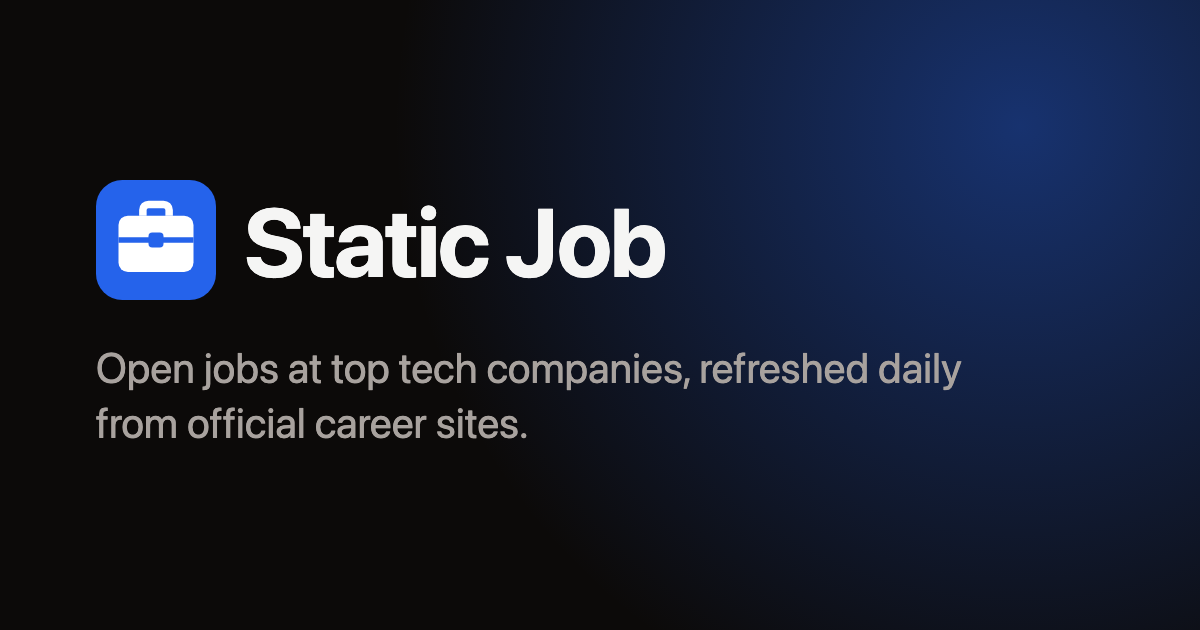
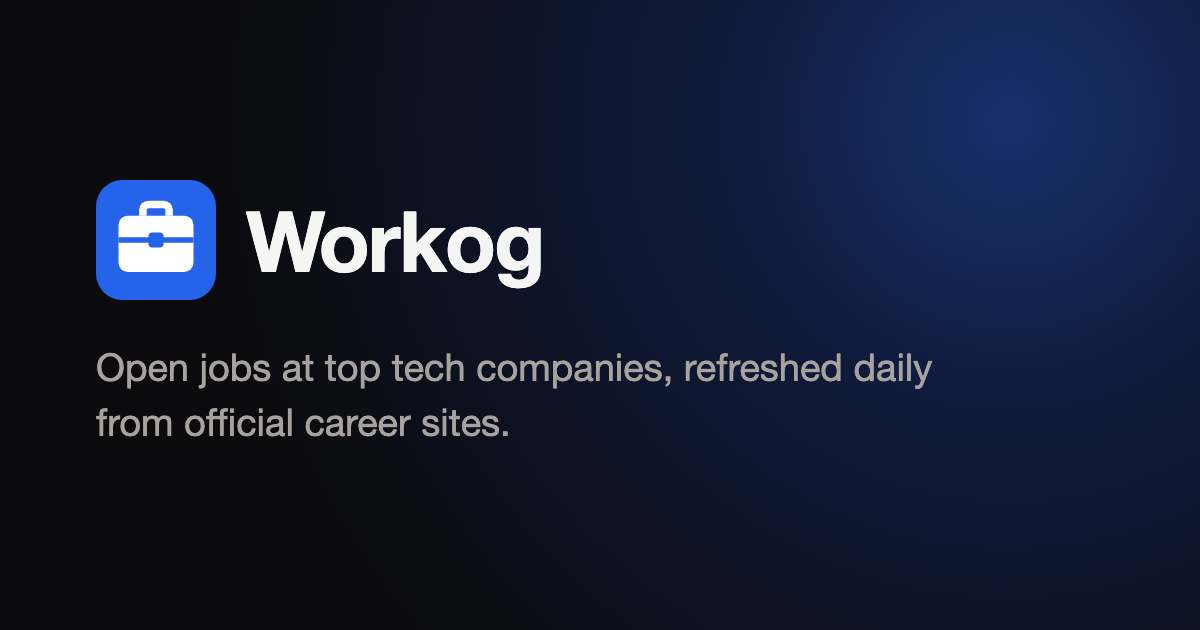
rename

Changed region(s): [[0.0925, 0.5429, 0.8017, 0.6937], [0.185, 0.3317, 0.555, 0.4524]]

diff --git a/scripts/alert.ts b/scripts/alert.ts
@@ -19,7 +19,7 @@ export function formatRunAlert(run: Pick<Run, "startedAt" | "sources">): string 
     const streak = s.fallbackStreak > 1 ? `, ${s.fallbackStreak} runs in a row` : "";
     return `${label} (${s.source}): ${s.reason ?? "fallback"}. Fetched ${s.fetched}, invalid ${s.invalid}; kept ${s.open} open jobs from the previous run${streak}.`;
   });
-  return [`Static Job run ${run.startedAt}: ${fallbacks.length} source(s) fell back`, ...lines].join("\n");
+  return [`Workog run ${run.startedAt}: ${fallbacks.length} source(s) fell back`, ...lines].join("\n");
 }
 
 function runLink(): string | undefined {

diff --git a/src/lib/structured-data.ts b/src/lib/structured-data.ts
@@ -14,10 +14,10 @@ const employmentTypes: Record<EmploymentType, string> = {
 
 export const website = (site: URL, description: string): Thing => ({
   "@type": "WebSite",
-  name: "Static Job",
+  name: "Workog",
   url: site.href,
   description,
-  publisher: { "@type": "Organization", name: "Static Job", url: site.href, logo: new URL("/icon-512.png", site).href },
+  publisher: { "@type": "Organization", name: "Workog", url: site.href, logo: new URL("/icon-512.png", site).href },
 });
 
 export const breadcrumbs = (items: { name: string; url: URL }[]): Thing => ({

diff --git a/src/pages/llms.txt.ts b/src/pages/llms.txt.ts
@@ -16,7 +16,7 @@ export const GET: APIRoute = async ({ site }) => {
   const list = (links: { href: string; label: string; count: number }[]) =>
     links.map((l) => `- [${l.label}](${url(l.href)}): ${plural(l.count, "open job")}`).join("\n");
 
-  const body = `# Static Job
+  const body = `# Workog
 
 > ${plural(jobs.length, "open job")} at ${plural(companies.length, "tech company")}, fetched daily from each company's official careers site.${run ? ` Last updated ${run.finishedAt}.` : ""}
 

diff --git a/scripts/fetchers/http.ts b/scripts/fetchers/http.ts
@@ -1,5 +1,5 @@
 const USER_AGENT =
-  process.env.FETCH_USER_AGENT ?? "static-job/0.1 (+https://static-job.pages.dev/about)";
+  process.env.FETCH_USER_AGENT ?? "workog/0.1 (+https://workog.com/about)";
 
 const TIMEOUT_MS = 30_000;
 const MAX_RETRIES = 3;

diff --git a/README.md b/README.md
@@ -1,4 +1,4 @@
-# Static Job
+# Workog
 
 A static job portal: a daily pipeline fetches open jobs from company career sites into `data/jobs/*.json`, and Astro pre-renders one page per job plus browse pages. See the technical spec for the full design.
 
@@ -46,7 +46,7 @@ The daily job deploys by itself because pushes made with `GITHUB_TOKEN` don't tr
    - `CLOUDFLARE_API_TOKEN`
    - `CLOUDFLARE_ACCOUNT_ID`
    - `ALERT_WEBHOOK_URL`: a Slack or Discord incoming webhook, or `https://api.telegram.org/bot<token>/sendMessage?chat_id=<id>`
-5. Set the `SITE_URL` env var for builds if the site isn't served at `https://static-job.pages.dev`.
+5. Set the `SITE_URL` env var for builds if the site isn't served at `https://workog.com`.
 6. Start the first run from Actions → Daily update → Run workflow.
 
 To roll back, redeploy an earlier deployment in the Cloudflare dashboard, or `git revert` the data commit, which triggers `deploy.yml`.
